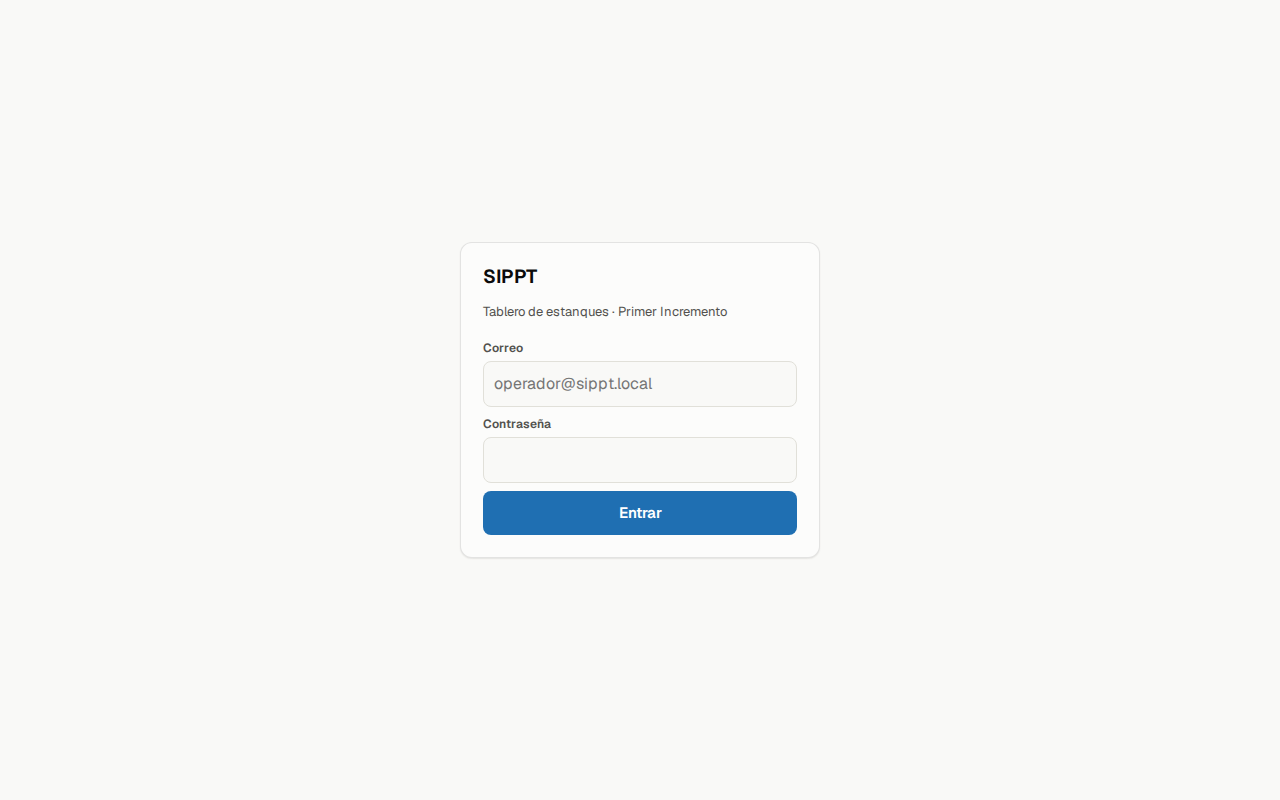
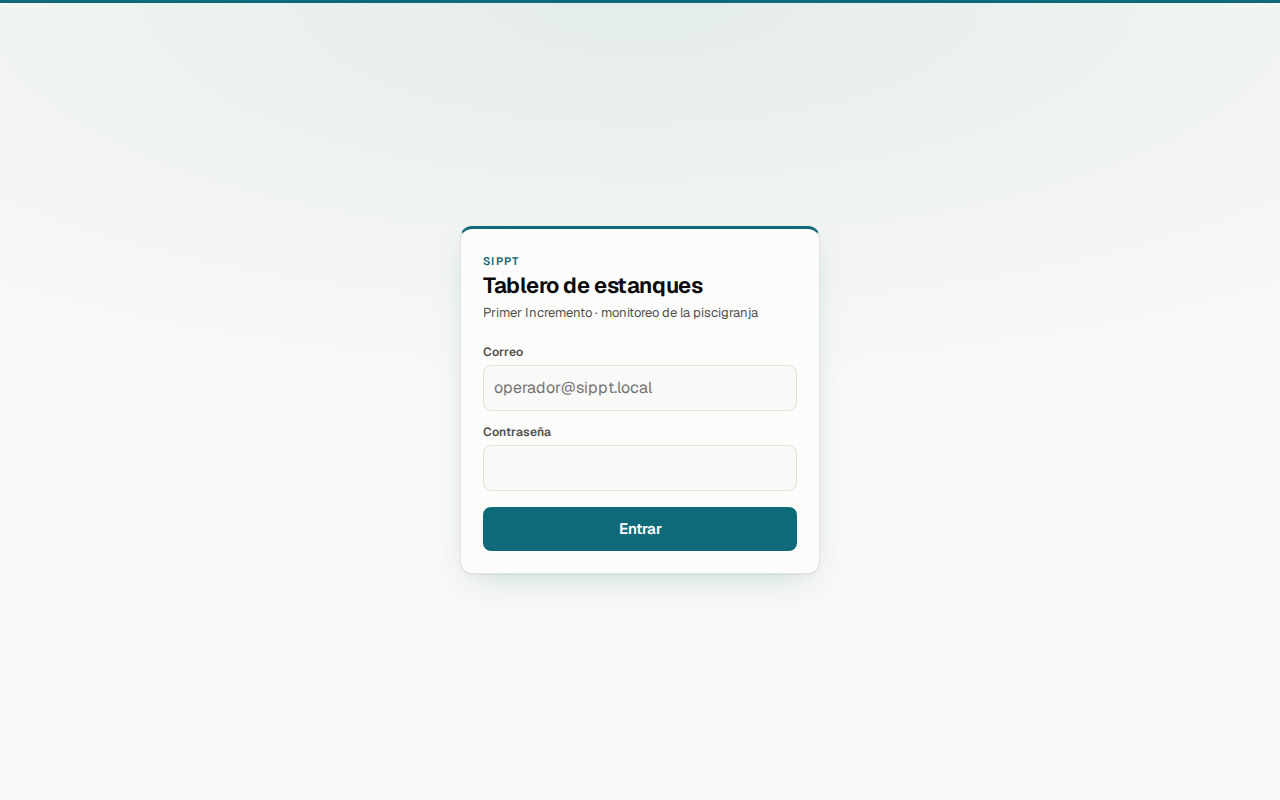
feat(acceso): color de marca azul petroleo en la pantalla de acceso
Antes de iniciar sesion nadie tiene rol, y el azul del operador hacia
parecer que ya se estaba en su vista. El acceso usa un color de marca
propio (#0e6a78, #3aa3b3 en modo oscuro con tinta oscura en el boton),
distinto de los tres acentos de rol y del semaforo, con la misma franja
superior que las vistas de rol. Contraste del boton 6.3:1 y 6.6:1. Se
retiran los estilos en linea de la pagina.

Claude-Session: https://claude.ai/code/session_01FFjvV93DJjnFTsWt2FDTtc

Changed region(s): [[0.375, 0.5938, 0.625, 0.75], [0.375, 0.2812, 0.625, 0.5625], [0.0, 0.0, 1.0, 0.0312]]

diff --git a/dashboard/app/globals.css b/dashboard/app/globals.css
@@ -1117,10 +1117,47 @@ select.campo__entrada {
 /* ── Acceso ───────────────────────────────────────────────────────────────── */
 
 .acceso {
+  /* Color de marca, no de rol: antes de iniciar sesión nadie tiene rol, y el
+     azul del operador hacía parecer que ya se estaba en su vista. Azul
+     petróleo — agua profunda — distinto de los tres acentos y del semáforo. */
+  --acento: #0e6a78;
+  --acento-tinta: #ffffff;
+
   min-height: 100dvh;
   display: grid;
   place-items: center;
-  padding: 24px 16px;
+  padding: 24px max(16px, env(safe-area-inset-right)) calc(24px + env(safe-area-inset-bottom))
+    max(16px, env(safe-area-inset-left));
+  background: radial-gradient(
+      120% 70% at 50% 0%,
+      color-mix(in srgb, var(--acento) 9%, transparent),
+      transparent 70%
+    ),
+    var(--plano);
+}
+
+@media (prefers-color-scheme: dark) {
+  :root:not([data-tema='claro']) .acceso {
+    --acento: #3aa3b3;
+    /* Sobre el petróleo claro del modo oscuro, el texto blanco no llega a
+       3:1; la tinta oscura sí. */
+    --acento-tinta: #0b0b0b;
+  }
+}
+:root[data-tema='oscuro'] .acceso {
+  --acento: #3aa3b3;
+  --acento-tinta: #0b0b0b;
+}
+
+/* La misma franja de borde a borde que llevan las vistas de rol */
+.acceso::before {
+  content: '';
+  position: fixed;
+  top: 0;
+  left: 0;
+  right: 0;
+  height: 3px;
+  background: var(--acento);
 }
 
 .acceso__caja {
@@ -1128,9 +1165,42 @@ select.campo__entrada {
   max-width: 360px;
   background: var(--superficie);
   border: 1px solid var(--borde);
+  border-top: 3px solid var(--acento);
   border-radius: var(--radio);
-  box-shadow: var(--sombra);
-  padding: 22px;
+  box-shadow: 0 1px 2px rgba(60, 52, 40, 0.06), 0 12px 32px -12px rgba(14, 106, 120, 0.25);
+  padding: 24px 22px 22px;
+}
+
+.acceso__marca {
+  margin: 0;
+  font-size: 11px;
+  font-weight: 600;
+  letter-spacing: 0.12em;
+  color: var(--acento);
+}
+
+.acceso__titulo {
+  font-size: 22px;
+  font-weight: 650;
+  letter-spacing: -0.02em;
+  margin-top: 2px;
+}
+
+.acceso__sub {
+  margin: 4px 0 20px;
+  font-size: 13px;
+  color: var(--tinta-2);
+}
+
+.acceso__formulario {
+  margin-top: 0;
+  padding-top: 0;
+  border-top: 0;
+  gap: 12px;
+}
+
+.acceso__formulario .boton {
+  margin-top: 4px;
 }
 
 .solo-lectores {

diff --git a/dashboard/app/acceso/page.tsx b/dashboard/app/acceso/page.tsx
@@ -19,14 +19,11 @@ export default function Acceso() {
   return (
     <main className="acceso">
       <div className="acceso__caja">
-        <h1 className="cabecera__titulo" style={{ marginBottom: 4 }}>
-          SIPPT
-        </h1>
-        <p className="cabecera__sub" style={{ marginBottom: 18 }}>
-          Tablero de estanques · Primer Incremento
-        </p>
+        <p className="acceso__marca">SIPPT</p>
+        <h1 className="acceso__titulo">Tablero de estanques</h1>
+        <p className="acceso__sub">Primer Incremento · monitoreo de la piscigranja</p>
 
-        <form action={enviar} className="formulario" style={{ borderTop: 0, paddingTop: 0 }}>
+        <form action={enviar} className="formulario acceso__formulario">
           <div className="campo">
             <label className="campo__etiqueta" htmlFor="email">
               Correo
